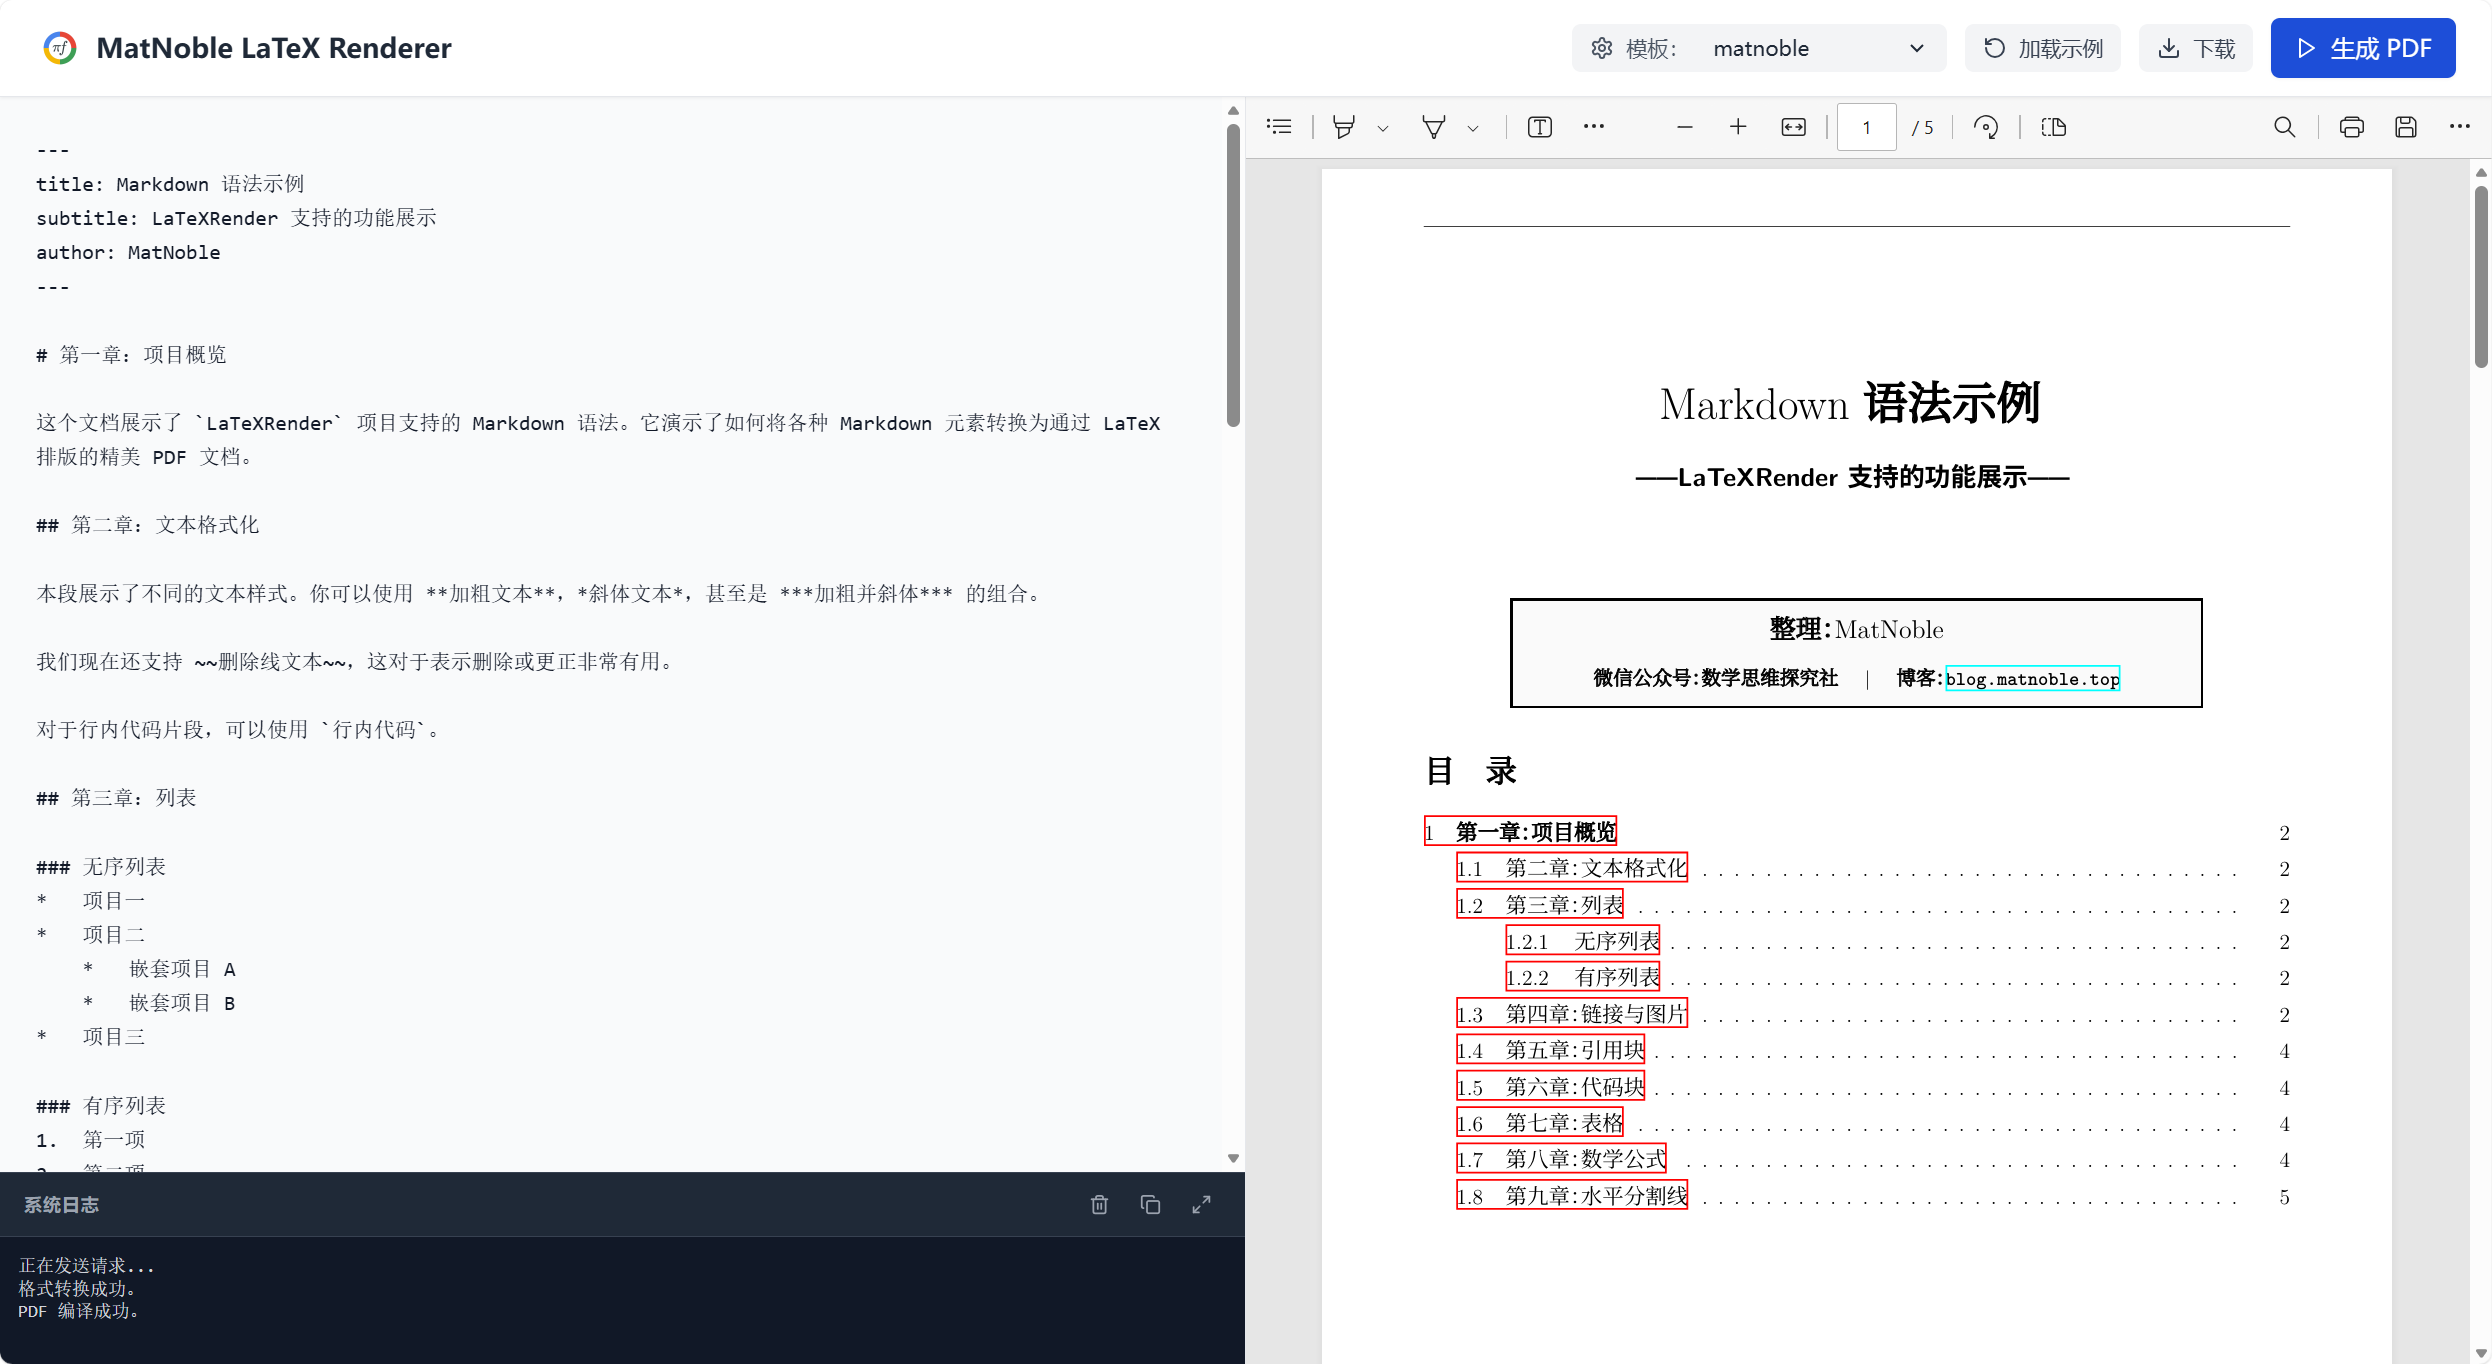
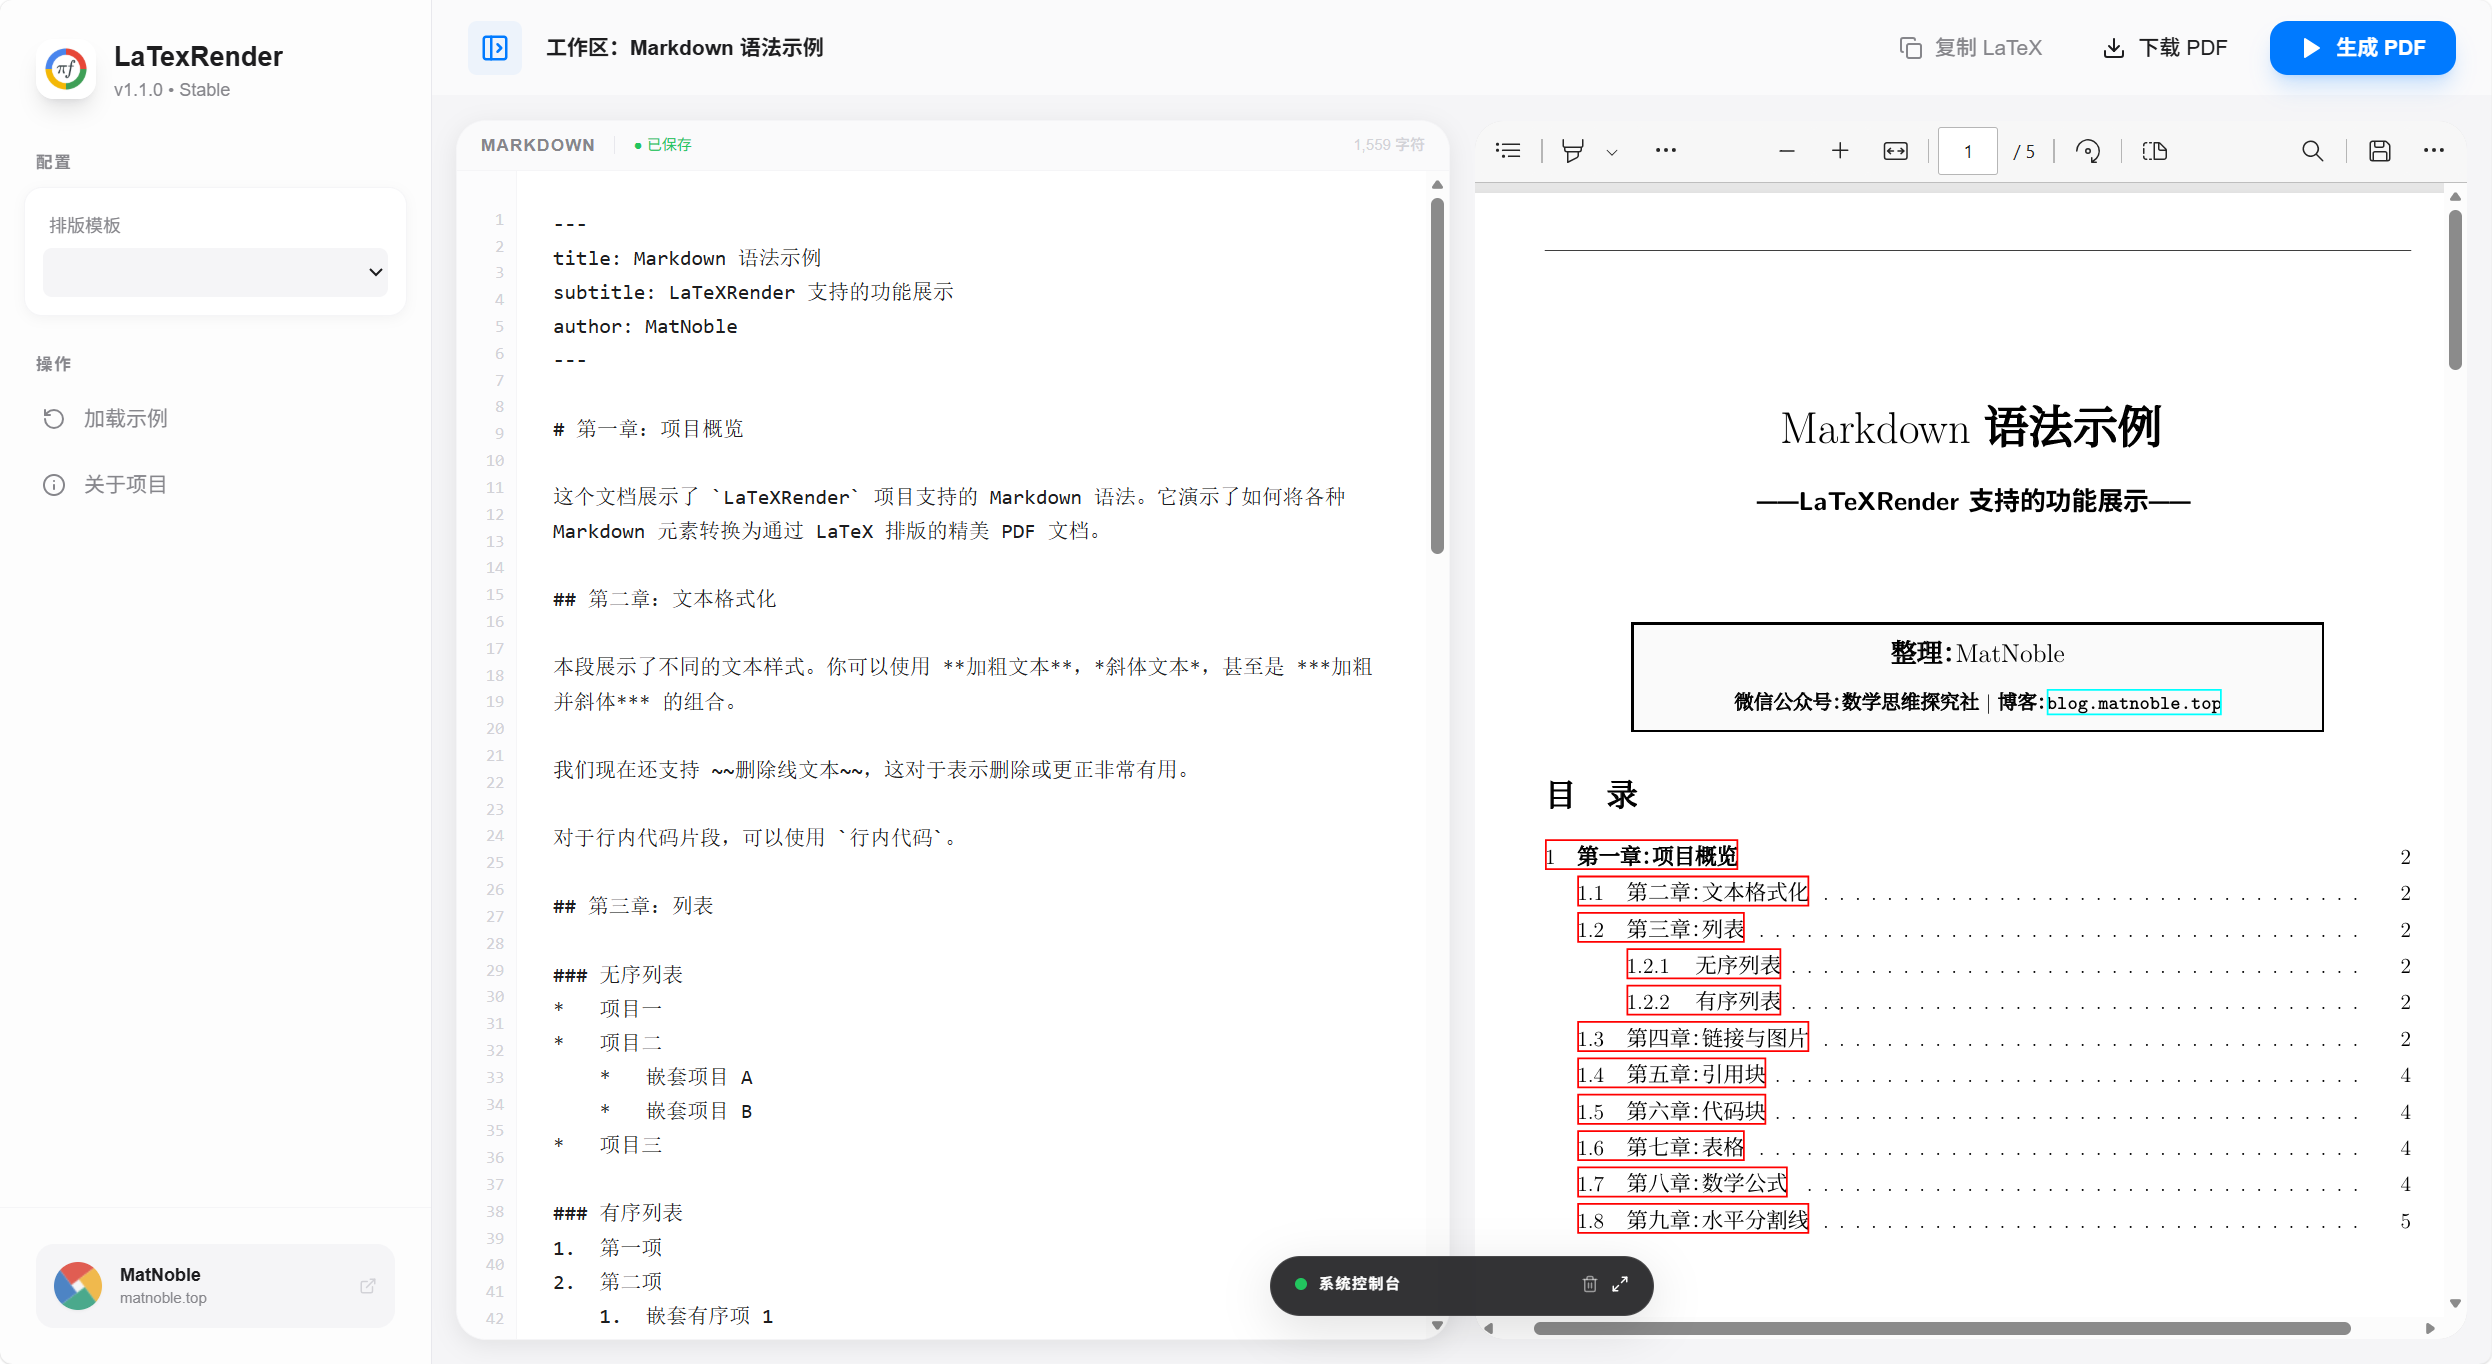
update App.jsx

diff --git a/web/src/App.jsx b/web/src/App.jsx
@@ -19,10 +19,10 @@ const DEFAULT_MARKDOWN = [
   '',
   '## 第二章：数学公式',
   '',
-  '行内数学表达式如 $E=mc^2$ 或 $\alpha + \beta = \gamma$。',
+  '行内数学表达式如 $E=mc^2$ 或 $\\alpha + \\beta = \\gamma$。',
   '',
   '$$',
-  '\int_{-\infty}^{\infty} e^{-x^2} dx = \sqrt{\pi}',
+  '\\int_{-\\infty}^{\\infty} e^{-x^2} dx = \\sqrt{\\pi}',
   '$$',
   '',
   '## 第三章：代码块',
@@ -75,10 +75,27 @@ function App() {
   }, [markdown]);
 
   useEffect(() => {
-// ... (keep logs scroll effect)
+    if (logEndRef.current) {
+      logEndRef.current.scrollIntoView({ behavior: 'smooth' });
+    }
   }, [logs]);
 
-  // ... (keep fetchTemplates)
+  const fetchTemplates = async () => {
+    try {
+      const res = await fetch('/api/templates');
+      const data = await res.json();
+      setTemplates(data.templates || []);
+      if (data.templates?.length > 0 && !data.templates.includes(selectedTemplate)) {
+        setSelectedTemplate(data.templates[0]);
+      }
+    } catch (err) {
+      console.error("Failed to fetch templates:", err);
+    }
+  };
+
+  useEffect(() => {
+    fetchTemplates();
+  }, []);
 
   const handleRender = async () => {
     if (loading) return;
@@ -225,7 +242,11 @@ function App() {
             rel="noreferrer"
             className="flex items-center gap-3 p-3 bg-apple-gray-50 hover:bg-white hover:shadow-apple-sm rounded-apple transition group"
           >
-             <div className="w-8 h-8 rounded-full bg-apple-blue/10 flex items-center justify-center text-apple-blue font-bold text-xs group-hover:bg-apple-blue group-hover:text-white transition-colors">MN</div>
+             <img 
+               src="/matnoble.ico" 
+               alt="MatNoble" 
+               className="w-8 h-8 rounded-full shadow-sm group-hover:scale-110 transition-transform duration-300" 
+             />
              <div className="flex-1 min-w-0">
                <p className="text-xs font-bold truncate">MatNoble</p>
                <p className="text-[10px] text-apple-gray-300 truncate group-hover:text-apple-blue transition-colors">matnoble.top</p>
@@ -391,7 +412,7 @@ function App() {
                  </p>
                  <div className="grid grid-cols-2 gap-3">
                     <a href="https://github.com/MatNoble" target="_blank" className="flex items-center gap-2 p-3 border rounded-apple hover:bg-apple-gray-50 transition text-sm font-medium"><Github className="w-4 h-4" /> GitHub</a>
-                    <a href="https://matnoble.top" target="_blank" className="flex items-center gap-2 p-3 border rounded-apple hover:bg-apple-gray-50 transition text-sm font-medium"><Globe className="w-4 h-4 text-apple-blue" /> 个人门户</a>
+                    <a href="https://blog.matnoble.top" target="_blank" className="flex items-center gap-2 p-3 border rounded-apple hover:bg-apple-gray-50 transition text-sm font-medium"><Globe className="w-4 h-4 text-apple-blue" /> 个人博客</a>
                  </div>
               </div>
            </div>
